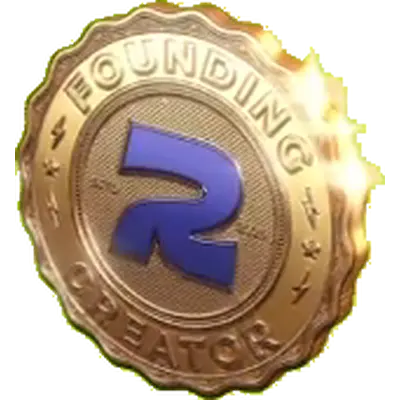
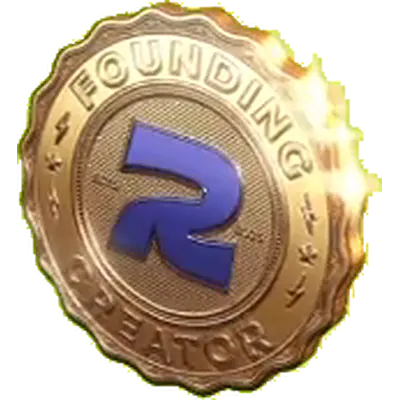
fix: use the sharpest, most face-on frame for the badge
Claude-Session: https://claude.ai/code/session_01SZgpKXY535DrQ7Cmcsae9s

Changed region(s): [[0.03, 0.0, 0.96, 1.0]]

diff --git a/docs/technical-spec.md b/docs/technical-spec.md
@@ -7,7 +7,7 @@ _How the page is built, as it actually exists. Updated in the same change as the
 The audience changed from recruits to creators already in, so the copy changed and the design did not (tokens, motion and layout are untouched). Later the same day the page was cut down to what onboarded creators need. Blocks in order: `Hero`, `Launch` (replaces `Seats`), `Badge` (new), `Join` (new), `Faq` (three questions), `Close`, then `Footer`. `VideoTakes`, `WhatRiffiIs`, `WhyHere`, `HowYouEarn` and `LongGame` were deleted with their copy, their CSS (the marquee and video-card rules), their three stock stills, `settings.comparisonSplit` and their tests; they were the recruiting pitch. The page is about 4,000px tall at 390px wide.
 
 - **`Launch`** shows the estimate (mid-November), the worst case (end of November) and "To be announced" as a plain `<dl>`, with a line saying they are estimates, not promises. No countdown and no seat count exists any more: `settings.seats` and `content.seats` are removed.
-- **`Badge`** shows the Founding Creator coin clearly (`public/media/badge.webp`, 400x400, 24KB, cropped from the founder's screen recording and cut out from its background). The first version was deliberately blurred; the founder asked for it to be clearer. The copy still names no perk, number or date: only that early creators get one when Riffi launches. A small copy of the same image sits beside the form's heading (decorative, with a text note next to it). Static, no motion.
+- **`Badge`** shows the Founding Creator coin clearly (`public/media/badge.webp`, 400x400, 24KB, cropped from the founder's screen recording, using the most face-on, largest frame, and cut out from its background; the source coin is only about 160px wide in the video, so a higher-resolution original would be crisper still). The first version was deliberately blurred; the founder asked for it to be clearer. The copy still names no perk, number or date: only that early creators get one when Riffi launches. A small copy of the same image sits beside the form's heading (decorative, with a text note next to it). Static, no motion.
 - **`Join`** is the page's one `<form>`. Five required inputs (name, email, phone, Instagram or X handle, the Riffi username wanted), each named with its Google Form entry id (`settings.form.fields`, validated at build by `formEntryId` in `src/lib/cta.ts`). `action` is the Google Form's `formResponse` address (`formResponseHref` accepts nothing else), so without JavaScript it is a plain POST. With JavaScript, `onSubmit` sends the answers through `src/lib/submit.ts` (`fetch`, `mode: 'no-cors'`) and shows a thank-you without leaving the page; a network failure shows an error and keeps what was typed. A hidden `website` trap field catches bots: if filled, nothing is sent but the page still shows success. Google gives a cross-site post no readable reply, so success means delivered, not confirmed.
 - **`Join` layout (2 Nov 2026):** two columns from a laptop up, like `Launch` and `Badge`: the badge, heading and badge note on the left, the form on the right, in a two-column field grid (username spans the full width). On a phone it is one column with the coin small beside the heading. Fields are 44px tall. Checked at 390, 820 and 1366px wide with no horizontal overflow.
 - **After the details are sent (2 Nov 2026):** the whole green panel becomes the thank-you, centred. The badge swishes up from the lower left, spinning as it does in the app (`.coin-swipe`, 1300ms, once, transform and opacity only, clipped sideways so it cannot widen the page) and settles above "Got it. Thank you." Under reduced motion it is simply there. The message says "Once the launch date is fixed, we'll send you an email." and names no address or handle (founder's direction). Verified in a browser at 390 and 1366px with the Google post blocked, so no test entry reached the real form.
